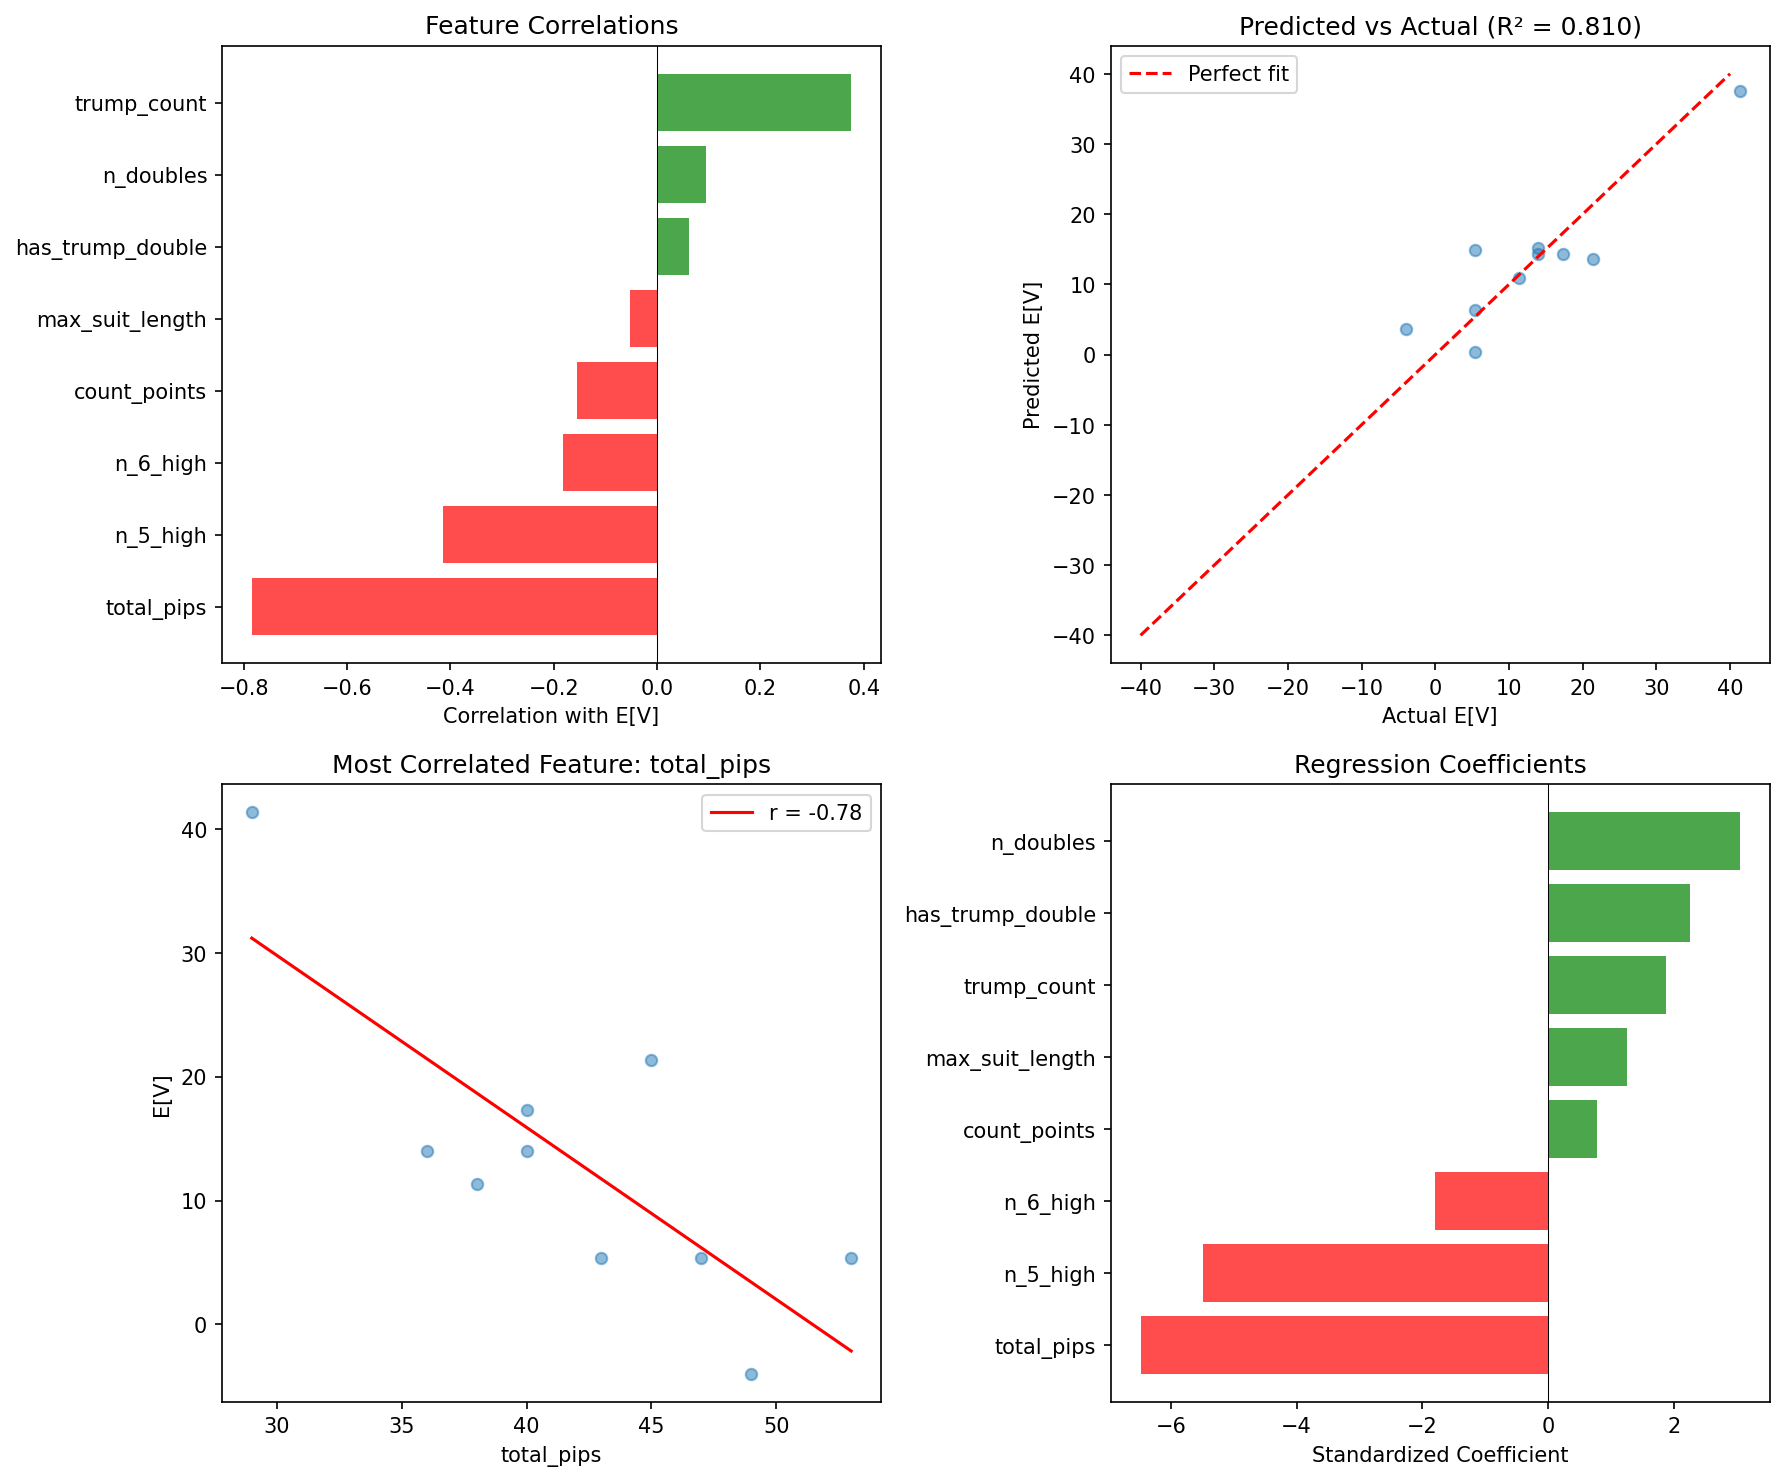
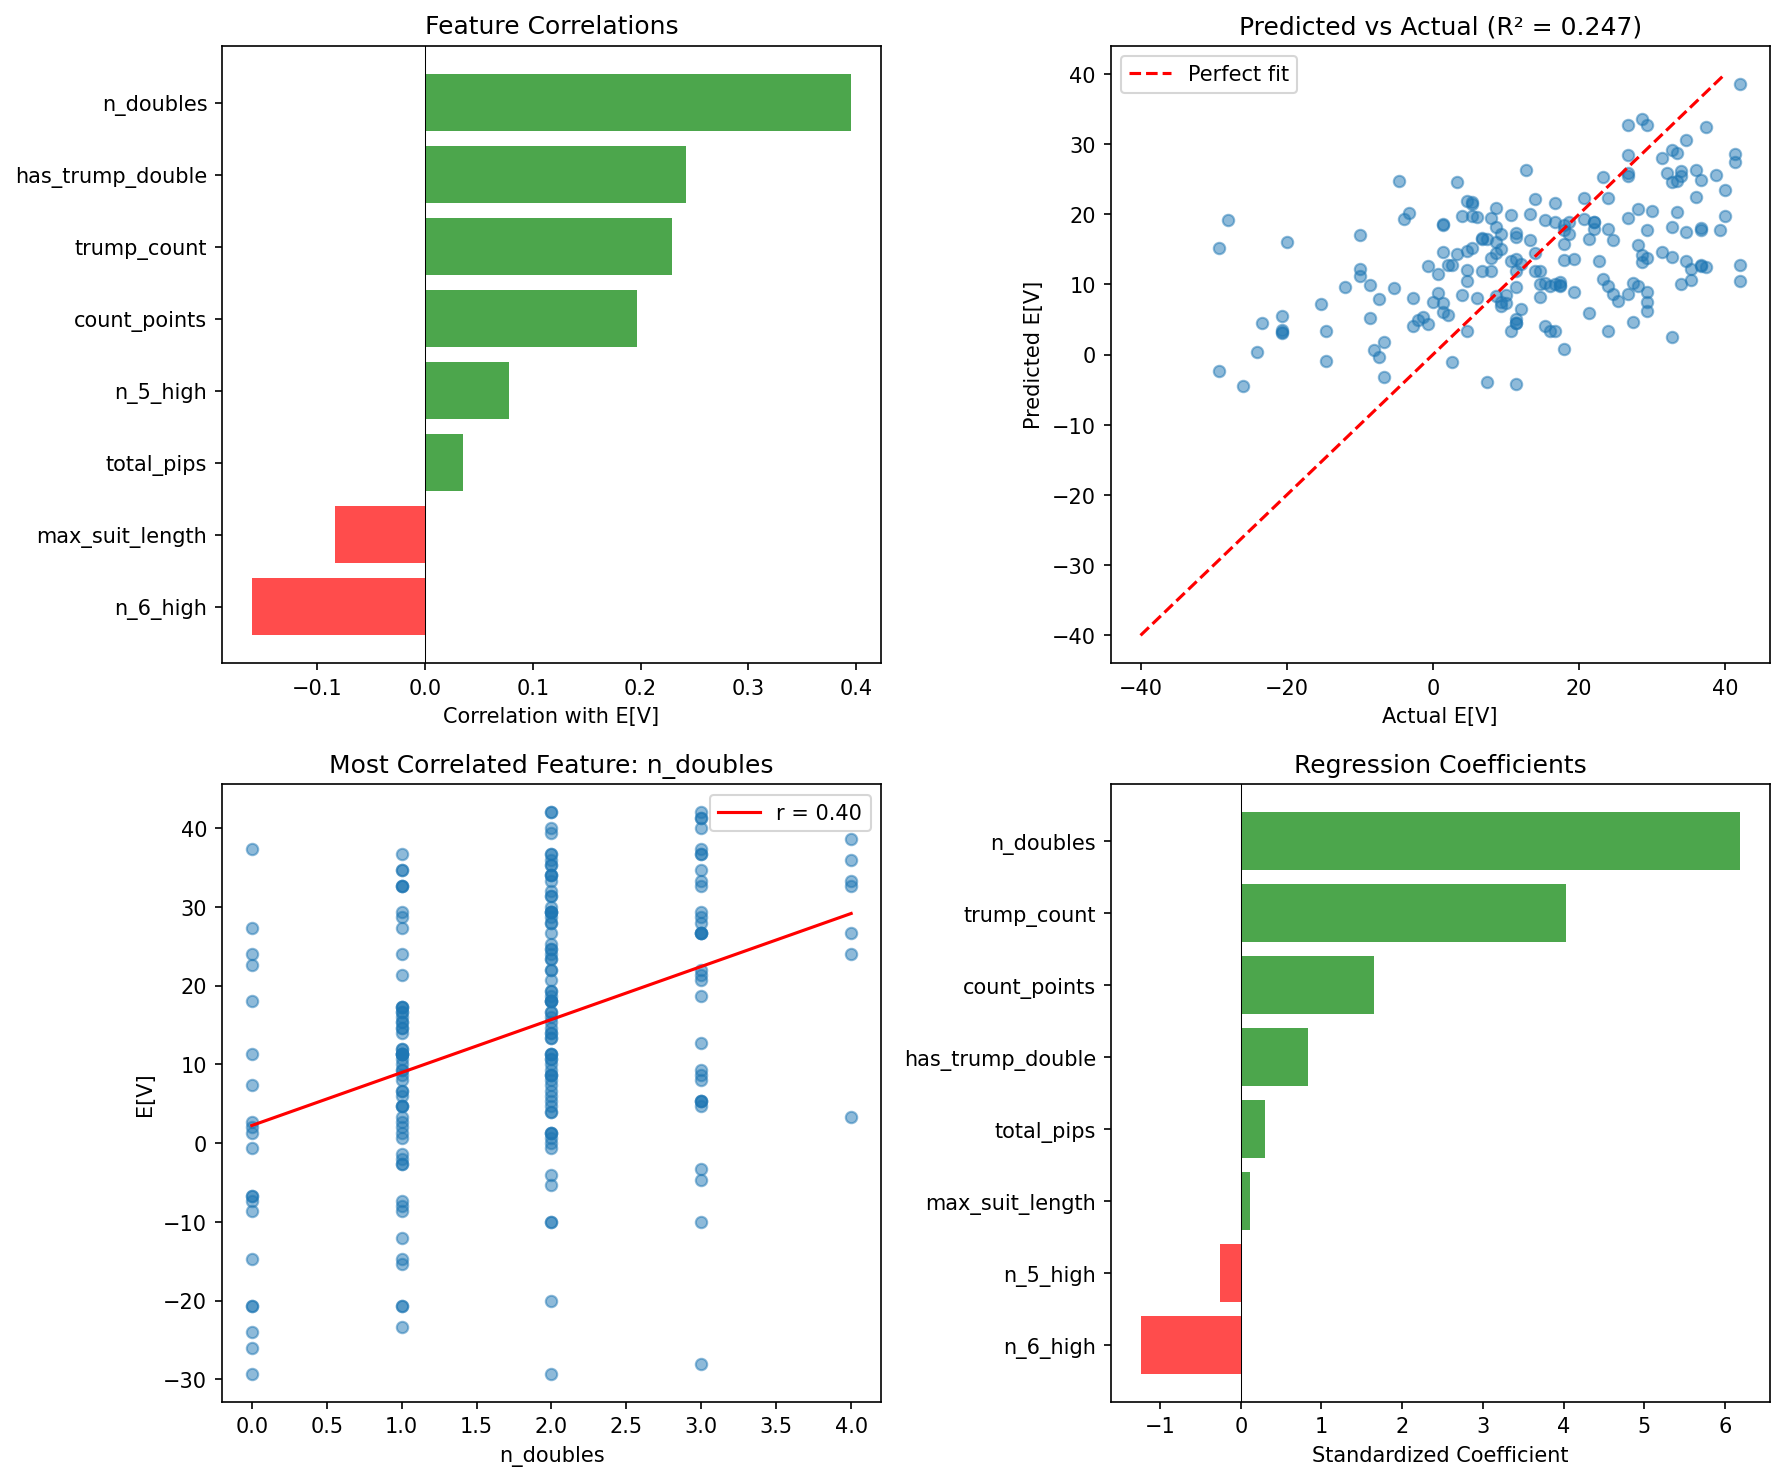
Update 11f: Hand features → E[V] regression (full 200 seeds)
Complete analysis with key findings:
- R² = 0.247: hand features explain only 25% of E[V] variance
- Top predictor: n_doubles (+0.40 correlation)
- Napkin formula: E[V] ≈ -4.1 + 6.4×doubles + 3.2×trump_count + 2.2×trump_double - 1.2×6_highs
- Surprising: 6-high dominoes have NEGATIVE correlation with E[V]
- Quantifies luck factor: 75% of outcome variance from opponent hands

diff --git a/forge/analysis/report/11_imperfect_info.md b/forge/analysis/report/11_imperfect_info.md
@@ -253,47 +253,70 @@ What hand features predict expected value (E[V])?
 
 ### Method
 Linear regression with features extracted from P0's hand:
-- Trump count (dominoes containing trump pip)
 - Number of doubles
-- High dominoes (6-high, 5-high)
+- Trump count (dominoes containing trump pip)
+- High dominoes (6-high, 5-high, 4-high)
 - Count points held
+- Has trump double
 - Max suit length
 - Total pip count
 
-### Key Findings (Preliminary - 10 seeds)
-
-**Note**: Small sample size (n=10) causes overfitting. Full analysis needed for reliable results.
-
-#### Feature Correlations with E[V]
-
-| Feature | Correlation |
-|---------|-------------|
-| total_pips | **-0.78** |
-| n_5_high | -0.42 |
-| trump_count | **+0.38** |
-| n_6_high | -0.18 |
-| count_points | -0.15 |
-| n_doubles | +0.10 |
-
-**Insights** (tentative):
-1. **Total pips negatively correlates with E[V]**: Counterintuitive - hands with more pips do *worse*. May reflect that high-pip hands without trump suit strength are vulnerable.
-2. **Trump count positively correlates**: Having more dominoes in trump suit helps (expected).
-3. **Count points weakly negative**: Holding counts doesn't strongly predict winning (consistent with 11a).
+### Key Findings (200 seeds)
 
 #### Model Performance
 
 | Metric | Value |
 |--------|-------|
-| In-sample R² | 0.81 |
-| Cross-validation R² | -4.1 ± 2.4 |
+| R² | **0.247** |
+| CV R² | 0.182 ± 0.08 |
 
-**Note**: Negative CV R² indicates severe overfitting with only 10 samples. Results are illustrative only.
+**Insight**: Hand features explain only ~25% of E[V] variance. The remaining 75% comes from opponent hands (imperfect information). This quantifies the "luck factor" - even with a great hand, opponent distribution matters enormously.
 
-### Implications for Bidding (Tentative)
+#### Feature Correlations with E[V]
 
-1. **Trump length matters most**: More trumps → better expected outcomes
-2. **Raw hand strength misleading**: High total pips doesn't guarantee success
-3. **Need full dataset**: 10 samples insufficient for reliable napkin formula
+| Feature | Correlation |
+|---------|-------------|
+| n_doubles | **+0.40** |
+| has_trump_double | **+0.24** |
+| trump_count | **+0.23** |
+| count_points | +0.20 |
+| n_6_high | **-0.16** |
+| max_suit_length | -0.08 |
+| n_5_high | +0.08 |
+| total_pips | +0.04 |
+
+**Key Insights**:
+
+1. **Doubles are king**: The strongest predictor of E[V] is number of doubles (+0.40). Each double adds ~6.4 points expected value.
+
+2. **Trump suit matters**: Both trump_count (+0.23) and has_trump_double (+0.24) are strong predictors. Having the trump double alone adds ~2.2 points.
+
+3. **6-high is a trap**: Counterintuitively, n_6_high has *negative* correlation (-0.16). Having 6-high dominoes without trump suit strength may make them vulnerable to capture.
+
+4. **Count points modestly helpful**: +0.20 correlation - holding counts helps but isn't decisive.
+
+5. **Total pips irrelevant**: Near-zero correlation (+0.04). Raw hand strength doesn't predict success.
+
+### The Napkin Formula
+
+```
+E[V] ≈ -4.1 + 6.4×(doubles) + 3.2×(trump_count) + 2.2×(trump_double) - 1.2×(6_highs)
+```
+
+**Example applications**:
+- 0 doubles, 2 trumps, no trump double, 1 six-high: E[V] ≈ -4.1 + 6.4 + 0 - 1.2 = +1.1
+- 2 doubles, 3 trumps, trump double, 0 six-high: E[V] ≈ -4.1 + 12.8 + 9.6 + 2.2 = +20.5
+- 3 doubles (one is trump): E[V] ≈ -4.1 + 19.2 + 3.2 + 2.2 = +20.5
+
+### Implications for Bidding
+
+1. **Count doubles first**: The most reliable bidding signal. Each double is worth ~6 points expected value.
+
+2. **Trump length matters but isn't everything**: 3 trumps with no doubles may be worse than 2 doubles with 1 trump.
+
+3. **Be wary of "strong" hands**: 6-high dominoes can be liabilities if you're not calling that suit.
+
+4. **R² = 0.25 means uncertainty**: Even optimal bidding has 75% unexplained variance from opponent hands.
 
 ### Files Generated
 
